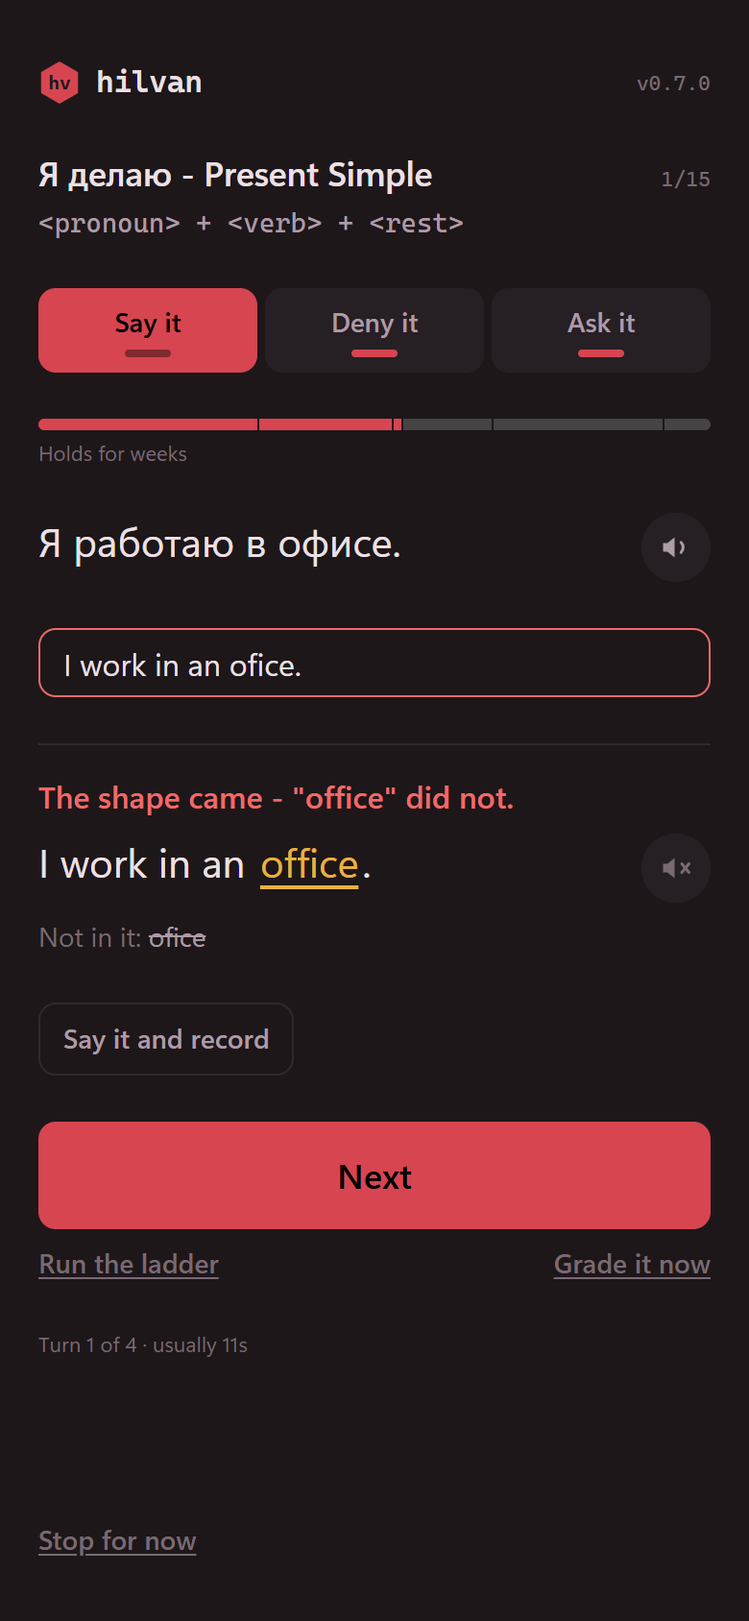
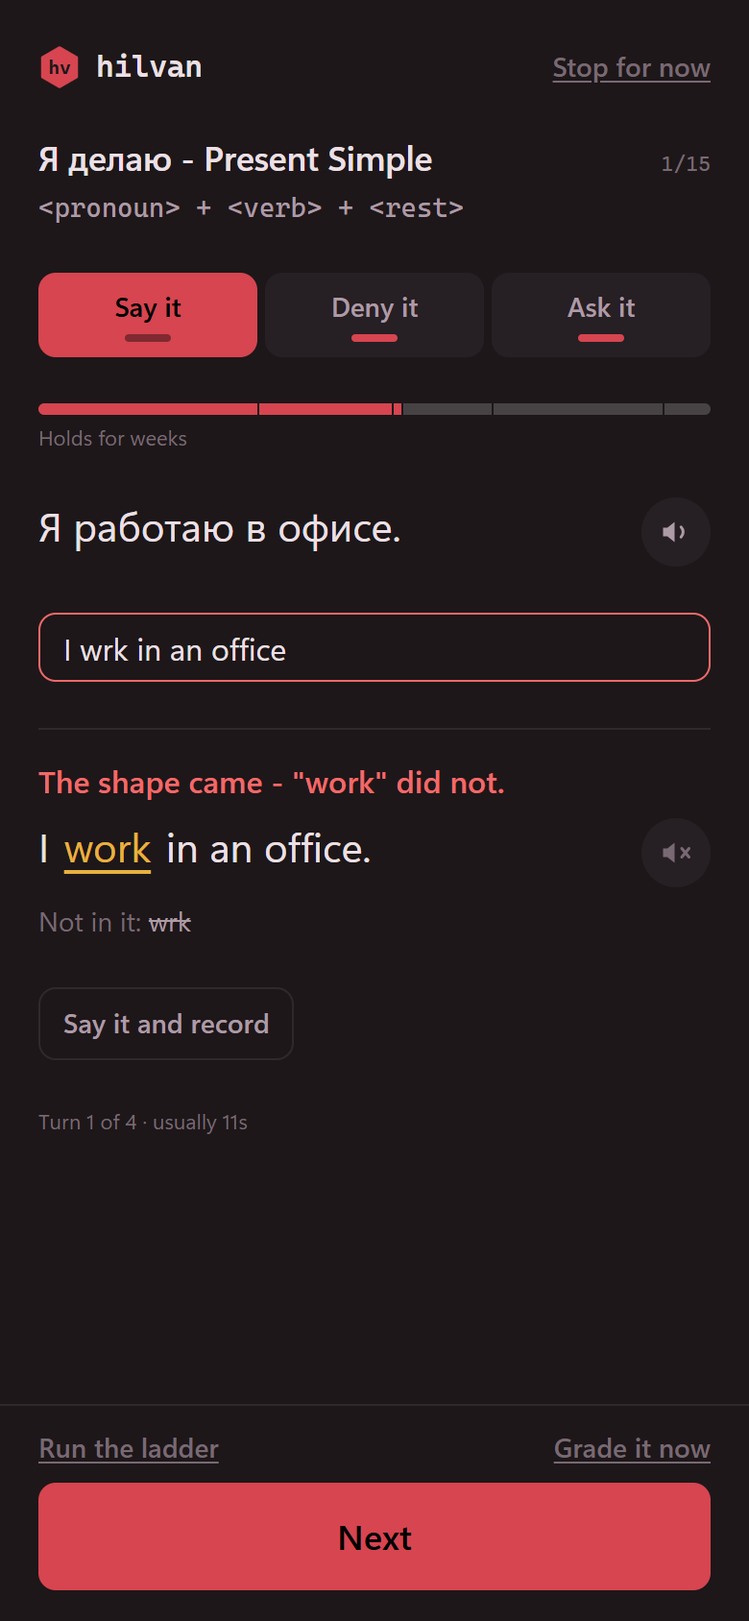
docs: explain the road, short sittings and this device, and bump to 0.8.0

diff --git a/docs/site/src/content/docs/reference/api.md b/docs/site/src/content/docs/reference/api.md
@@ -7,7 +7,7 @@ All endpoints are under `/api` and speak JSON. A path outside `/api` that does n
 
 ## Sessions
 
-Two endpoints - `/api/health` and `/api/session` - are reachable with no session. Every study endpoint (`/api/today`, `/api/formulas/{id}` with its `/check` and `/review`, `/api/words/{id}` and its `/review`, `/api/own-words`, `/api/inventory`, `/api/model`) sits behind [`HILVAN_PASSWORD_HASH`](/hilvan/reference/configuration/#the-password): when it is set, a request with no valid session cookie gets `401`.
+Two endpoints - `/api/health` and `/api/session` - are reachable with no session. Every study endpoint (`/api/today`, `/api/formulas/{id}` and its `/review`, `/api/words/{id}` and its `/review`, `/api/own-words`, `/api/inventory`, `/api/model`) sits behind [`HILVAN_PASSWORD_HASH`](/hilvan/reference/configuration/#the-password): when it is set, a request with no valid session cookie gets `401`.
 
 ```json
 { "error": "sign in first" }
@@ -156,7 +156,10 @@ Today's queue: formulas, then words. In each, everything due for review comes fi
   "room": { "debt": 3, "words": 7, "formulas": 1 },
   "on_break": null,
   "away_since": null,
-  "last_week": { "starts_on": "2026-08-24", "slipped": 2, "names": ["I am / you are", "home"] }
+  "last_week": { "starts_on": "2026-08-24", "slipped": 2, "names": ["I am / you are", "home"] },
+  "as_of": "2026-09-03T09:00:00Z",
+  "usual": { "produce": 52000, "recognise": 18000, "word": 7400 },
+  "coming": ["2026-09-03T19:12:00Z", "2026-09-05T08:40:00Z"]
 }
 ```
 
@@ -181,6 +184,9 @@ Today's queue: formulas, then words. In each, everything due for review comes fi
 | `words.declared` | integer | Words held on the learner's word alone: declared known and not asked since. Counted in the levels. |
 | `next` | object \| null | The first formula of the pack's sequence that has not started and is not opening today; `null` once every formula has. |
 | `next.waits_for` | array | Its [parents](/hilvan/reference/packs/#parents) not yet sewn, each with its `stitch`. Empty when it waits only for a day with room for a new formula. |
+| `as_of` | string (RFC 3339) | When the server read this. A copy the device keeps for a sitting out of reach says how old it is. |
+| `usual.produce` \| `usual.recognise` \| `usual.word` | integer \| null | How long an answer of each kind usually takes, in milliseconds: the median of the last 30 timed answers, `null` before there are three. A sitting of a few minutes is measured with it for a card with no `pace` of its own. |
+| `coming` | array of RFC 3339 | When the cards not in the queue come back over the next seven days, breaks counted, earliest first. The app counts what has come back since the read - the number on its icon - without asking again. |
 | `room.debt` | integer | Cards the queue asks that had waited through a whole day they could have been answered on - come due before the start of yesterday, the breaks counted - as the day began. |
 | `room.words` | integer | New words the day opens, all told: ten, one fewer for every card of debt. Words started earlier the same day use up places. |
 | `room.formulas` | integer | New formulas the day opens: `1` while the debt leaves room for a word, `0` once it has taken all ten. |
@@ -305,11 +311,11 @@ The three forms stay three formulas with three schedules, because they are learn
 { "error": "there is no formula called nonsense" }
 ```
 
-### `POST /api/formulas/{id}/check`
+### Checking a typed turn
 
-Checks one typed turn against the formula's answer and the answers it accepts, without recording anything: what the drill shows the moment the learner submits.
+There is no endpoint for it. The app checks each typed turn the moment it is typed with hilvan's own checker - the Rust the server grades with, built to WebAssembly (`crates/check`) - so the verdict comes with the tutor out of reach as it does at home. The server checks every turn again when the answer arrives, and that reading is the one the grade rests on.
 
-**Request** - a turn: what was asked, and what was typed.
+A turn names what was asked and what was typed:
 
 ```json
 { "asked": { "values": { "pronoun": "they", "rest": "ready" } }, "typed": "They is redy" }
@@ -317,7 +323,7 @@ Checks one typed turn against the formula's answer and the answers it accepts, w
 
 `asked` names the question by what it was made of: `{ "values": { slot: target } }` for a substitution - the `target` of the value put in each slot, every slot named once - or `{ "sample": <sentence id> }` for one of the formula's own sentences.
 
-**Response** `200`:
+What the checker makes of it:
 
 ```json
 {
@@ -345,7 +351,18 @@ Checks one typed turn against the formula's answer and the answers it accepts, w
 | `failure` | `"formula"` \| `"order"` \| `"word"` \| null | What went wrong: a piece of the shape missing (or something added), every word there in the wrong order, or only carried words missing. `null` when right. |
 | `missed` | array | Carried words that did not come, as they stand in `closest`. |
 
-**Response** `404` when `{id}` names no formula; `422` when `asked` names a slot, value or sentence the formula does not have.
+### Answers from the device
+
+Every answer - to a formula either way, or to a word - travels from a line kept on the device, delivered in the order the answers were given whenever the tutor can be reached: a second later at home, an evening later after a day underground. Each carries two fields besides the answer itself:
+
+| Field | Type | Required | Meaning |
+| --- | --- | --- | --- |
+| `answer_id` | string, 1 to 64 characters | yes | An identity the device minted for this answer. The same answer delivered again - the reply to the first delivery lost on the way back - is recorded once, and told what the first delivery was told. |
+| `answered_at` | string (RFC 3339) | yes | When the answer was given, by the device's clock. The answer is recorded at that moment, not when it arrived; a moment still to come - a clock running ahead - is taken as the moment it arrived. |
+
+An answer is put into the card's history at the moment it was given, and the history is played through the scheduler again, so an answer that arrives after a later one - given on a phone with no signal while a laptop answered the same card at home - takes its place between them. An answer given during a [break](#breaks) ends the break at that moment, however long after it arrives.
+
+**Response** `422` when either field is missing or `answer_id` is empty or too long.
 
 ### `POST /api/formulas/{id}/review`
 
@@ -355,6 +372,8 @@ Records an answer and reschedules the formula through FSRS. How depends on the d
 
 ```json
 {
+  "answer_id": "6f0c2b8e-3a51-4f7e-9d2c-1b8a7e4d5c10",
+  "answered_at": "2026-09-03T08:41:12.400Z",
   "direction": "produce",
   "turns": [
     { "asked": { "sample": 1 }, "typed": "I'm at home" },
@@ -367,7 +386,7 @@ Records an answer and reschedules the formula through FSRS. How depends on the d
 
 | Field | Type | Required | Meaning |
 | --- | --- | --- | --- |
-| `turns` | array | yes, at least one | Every turn typed, in order, in the shape `/check` takes. Each is checked again here; nothing the client concluded decides the grade. |
+| `turns` | array | yes, at least one | Every turn typed, in order, in the shape [a turn](#checking-a-typed-turn) takes. Each is checked again here; nothing the device concluded decides the grade. |
 | `easy` | boolean | no | The learner's word that it came without thinking. Honoured only when every turn was right. |
 | `duration_ms` | integer | no | How long the answer took. Kept and reported back as `pace`; never used to schedule. |
 
@@ -376,7 +395,7 @@ The grade follows the slips of the shape - a `formula` or `order` failure: in ha
 **Understanding it** - heard, and graded by the learner:
 
 ```json
-{ "direction": "recognise", "rating": "good", "duration_ms": 4200 }
+{ "answer_id": "2b9d4f7a-0c3e-4e6b-8a51-7d2f9c1e6b30", "answered_at": "2026-09-03T08:42:30.000Z", "direction": "recognise", "rating": "good", "duration_ms": 4200 }
 ```
 
 `rating` is one of `"again"`, `"hard"`, `"good"`, `"easy"`.
@@ -403,8 +422,8 @@ Only the card in the direction named is graded: answering `"recognise"` leaves t
 | `stitch` | `"new"` \| `"basted"` \| `"sewn"` | The formula's state in this direction after this answer. Never `"new"` - answering is what leaves the new pile. |
 | `rating` | string | The grade recorded: the learner's when heard, the turns' when typed. |
 | `words` | array | Words sent to their own cards by this answer. Always empty when heard. |
-| `due` | string (RFC 3339) | When the formula comes back in this direction. |
-| `interval_days` | integer | Days between now and `due`. |
+| `due` | string (RFC 3339) | When the formula comes back in this direction, breaks counted. |
+| `interval_days` | integer | Days between the answer's arrival and `due`. |
 | `pace` | object \| null | How this answer compared with the usual; `null` until three timed answers. |
 | `stability` \| `stability_before` | number | How firmly the card holds after the answer and held before it, in days: what the bar on the card moves between. |
 
@@ -475,7 +494,7 @@ Records an answer to a word and reschedules it through FSRS. A word has one card
 **Request:**
 
 ```json
-{ "rating": "good", "duration_ms": 2400 }
+{ "answer_id": "8e1f5a2c-6d4b-4c9e-b7a3-0f2e9d8c1a57", "answered_at": "2026-09-03T08:43:05.120Z", "rating": "good", "duration_ms": 2400 }
 ```
 
 **Response** `200`: the same shape as a formula's review - `stitch`, `due`, `interval_days`, `pace`, `rating`, `words`, `stability`, `stability_before`. The first answer fixes the word's anchor.

diff --git a/docs/site/src/content/docs/guides/your-first-week.md b/docs/site/src/content/docs/guides/your-first-week.md
@@ -1,6 +1,6 @@
 ---
 title: Your first week
-description: Loading the pack, signing in, what a sitting looks like, what happens when you miss days or go away, and what to expect as new formulas turn into basted ones and basted ones into sewn.
+description: Loading the pack, signing in, what a sitting looks like - at home, in a few minutes, on the road - what happens when you miss days or go away, and what to expect as new formulas turn into basted ones and basted ones into sewn.
 ---
 
 This is what actually happens once the tutor has material in it: loading a pack, signing in, and the shape of a sitting from the first day through the first week.
@@ -32,6 +32,8 @@ The commonest thousand go by in an evening. The run goes on to the 5,000 level w
 Open the app and it shows you today's queue: whatever is due for review, and - if the day has room - one new formula. That "one new formula a day" limit is deliberate. A formula is a shape you assemble until it stops needing thought, and starting two on the same day means neither gets that.
 
 **Reviews always come before the new formula.** If three formulas are due, you work through those first; the new one, when there is room for it, comes last. A day where you start something new while forgetting yesterday's is the thing hilvan is built to avoid.
+
+**Start**, at the foot of the screen, says about how long the whole queue takes. The buttons you press in a sitting - **Check**, **Next**, the grades - stay down there too, where a thumb reaches with the phone in one hand, however long the card above them is.
 
 For each formula, you see the pattern, an explanation in your own language, and worked examples. The drill substitutes different words into the same shape, so you are producing the sentence, not just recognizing it - and you produce it by **typing** it.
 
@@ -88,6 +90,32 @@ Under the name of a card you have answered before runs a thin bar: how long it h
 ### How long it took
 
 Under the turn counter, a card that has been drilled a few times says how fast it usually comes - "usually 3.8s" - and after you grade it, whether this answer was quicker or slower than that. It is there to be noticed, nothing more: the schedule is not affected by how long you took. A formula that arrives after eight seconds of assembly is still on its way to being yours, and the number is how you watch that happen.
+
+### A few minutes
+
+When the queue is longer than five minutes, **Only a few minutes?** above **Start** offers a sitting of 5, 10 or 15. It takes cards from the front of the queue - reviews first, as always - for as long as they fit, measured by how long each card usually takes you, or cards of its kind when it has no pace of its own yet. Nothing further back is picked out because it is quick: what is owed first is done first. What is left waits for the next sitting, the same day or the next.
+
+### From a keyboard
+
+On a computer, the space bar does what the screen is waiting for - show the answer, next turn, grade it, next card - and **1** to **4** give the four grades: again, hard, good, easy. When a typed round was flawless, **3** is good and **4** is easy. The keys are read by their place on the keyboard, so they work on a Russian layout as on an English one; in the answer field they type, as they should.
+
+## On the road
+
+A sitting does not need the tutor in reach. Open the app from the home screen on a train, in the metro, on a plane, and it opens with today as it stood the last time it was read, says so at the top, and works: every turn is checked on the phone, by the same code the tutor grades with, and each answer is kept on the phone and sent - in the order you gave them - the next time the tutor can be reached. An answer given underground at nine is recorded at nine, wherever it arrives.
+
+What it cannot say on the road is when a card comes back: that is the tutor's to work out, so after a grade the card says it is kept on the device. Today counts the answers still waiting, and the next time the app reaches the tutor they go, and the counts are the tutor's again.
+
+For the road to work, the app has to have been opened once with the tutor in reach: that is when it keeps itself, today's cards and the sounds the sitting will play - every question and answer of today's queue, fetched in the background. The questions of a sitting are settled at that moment, so the sounds are the right ones. It also needs the tutor's `https://` address: a browser keeps nothing for a page served over plain `http://` (see [Running on a Raspberry Pi](/hilvan/guides/running-on-a-pi/#over-https)).
+
+If you answer the same card on two devices before either reaches the tutor, both answers count, in the order you gave them.
+
+## On the home screen
+
+Installed on a phone's home screen, the app has two shortcuts on its icon - press and hold it: **Today**, and **Ten minutes**, which opens straight into a sitting that fits ten minutes. The icon carries a number: the cards waiting to come back. Where the phone allows it - an installed app on Android - the number is recounted now and then while the app is closed, as cards come due, without the tutor having to reach the phone; elsewhere it is the number the app last left.
+
+## This device
+
+**This device**, in the footer of Today, holds what belongs to the phone or computer rather than to you: whether the app is dark, light or as the device is set (each device keeps its own), what is kept for the road and whether every answer has reached the tutor, and signing out. Signing out sends what is waiting first, and refuses while anything still has not reached the tutor - signing out forgets what the device keeps.
 
 ## Missed days
 

diff --git a/docs/adr/0011-answers-from-the-road.md b/docs/adr/0011-answers-from-the-road.md
@@ -1,0 +1,31 @@
+# 0011 · Answers from the road: one core on both sides, one line on the device
+
+Date: 2026-10-20. Status: accepted.
+
+## Context
+
+The time a learner actually has is on the road: a train, the metro, a queue. Until 0.8 every turn of the drill was checked by `POST /api/formulas/{id}/check` and every answer posted straight to the server, so a sitting needed the tutor in reach the whole way through - and the tutor lives on a home network. The drill could not run underground at all, and an answer whose request failed was simply gone.
+
+Making the drill work there raises three questions: who says whether a typed turn is right when the server cannot be asked, how an answer given hours before it arrives fits into a schedule that has moved on meanwhile, and what happens to an answer delivered twice.
+
+## Decision
+
+**The check is one piece of Rust, run on both sides.** The answer checker, the `say` templates and the grade a round earns (`answer.rs`, `say.rs`, `judge`, `rate`) move into a crate of their own, `hilvan-core`, with no database, clock or network in it. The server links it; `crates/check` builds it to WebAssembly for the app, with a four-export interface (JSON in through one buffer, JSON out through another) and no bindings generator. The app checks every turn with it, in reach or not; the server checks every turn again when the answer arrives, and that reading is the one the grade rests on. `POST /api/formulas/{id}/check` is removed: one way to check, not two. A port to TypeScript was the alternative and was turned down - a second implementation of what is right would drift from the first the first time either changed, and the learner would be told "right" on the phone and graded wrong at home.
+
+**Every answer takes one road.** The app writes each answer to a line in IndexedDB and delivers the line in order - at once at home, whenever the tutor is next reached otherwise. There is no second path for answers given in reach. A delivery the server refuses for the answer's own sake (404, 400, 422) is dropped and counted; one refused for want of a session waits for a sign-in; anything else waits for later. The same rules as rhapsod's queue (rhapsod ADR 0003).
+
+**An answer carries its identity and its moment.** The device mints `answer_id`; the server keeps a receipt per id - the reply it gave - and a repeated delivery is told the same and recorded once. `answered_at` is the device's clock: the answer is recorded at that moment, and a moment still to come is taken as the moment of arrival.
+
+**A card is always its history played again.** An answer is added to the card's history at its own moment and the whole history is walked through FSRS again, rewriting each review row's step and the card row. This replaces the incremental update rather than sitting beside it as a special case for late answers: an answer that arrives after a later one - two devices on one card - takes its place between them, and the card is what both answers in that order make it. Inventory undo, which already rebuilt the card from its history, now rewrites the review rows too; before, it left the steps of later answers stale.
+
+**A late answer obeys the rules of its own moment.** An answer given during a break ends the break at that moment, however long after it arrives - the break counted on a laptop from the last answer it could see is cut back to the answer the phone gave underground.
+
+**The device holds the day.** A service worker keeps the app, the study reads (Today, formulas, words) and the sounds; Today carries `as_of`, the usual pace of each kind of card and the moments the cards out of the queue come back over the next week. The app lays the answers still on the device over the Today it holds. The questions of a sitting are drawn when Today is read in reach, and their sounds fetched then, so the road has something to say aloud. After an answer the tutor could not take in time, the card says it is kept on the device and does not guess when it comes back: the schedule is the server's alone.
+
+## Consequences
+
+- The drill runs without the tutor in reach: checked on the device, answered into the line, delivered in order later.
+- The web build needs the `wasm32-unknown-unknown` target and cargo; the image builds the checker in a stage of its own, and CI's web job installs the target.
+- Every answer replays its card's history. A card has tens of reviews, so the cost is nothing, and the rows can never drift from what the history says.
+- The receipts grow by one row per answer. They are delivery bookkeeping, not part of the learner model: the model file does not carry them, and an import leaves them as they are.
+- The API breaks: answers without `answer_id` and `answered_at` are refused, and the check endpoint is gone. There are no other clients.

diff --git a/README.md b/README.md
@@ -27,7 +27,7 @@ The name is the Spanish *hilván*, a basting stitch: phrases are first tacked in
 - **A start from what you know.** On the first evening the commonest words go by one at a time; the ones you know start sewn and are checked when a sentence brings them, so the levels begin where you are, not at zero.
 - **Your learner model, yours.** Every answer, own word and inventory answer downloads as one JSON file with a [published schema](https://lacodda.github.io/hilvan/reference/learner-model/), imports on another stand, and shows any past day beside today.
 - **Spaced repetition that decides for you.** FSRS scheduling with three states - new, basted, sewn - picks one new formula a day and brings back what is due.
-- **A sitting on a phone.** The formula of the day, a prompt, your typed answer, and what it got right.
+- **A sitting wherever you are.** On a phone in one hand, in the five or ten minutes you have, with the tutor out of reach: each typed turn is checked on the device by the tutor's own code, and the answers arrive, in order, when it can be reached.
 - **A password on the door.** The server refuses to run open and says so in its first log line if you skip it.
 
 ## Install
@@ -67,7 +67,7 @@ Everything comes from the environment; a `.env` file is read first, and `.env.ex
 
 ## Status
 
-**v0.7.0**, early, built for one learner: thirty formulas for a Russian speaker, words in their sentences, an inventory of what you know, a schedule that stops for a break, and the learner model as one file - on a phone. What landed in each version is in the [CHANGELOG](https://github.com/lacodda/hilvan/blob/main/CHANGELOG.md), the architecture in the [ADRs](https://github.com/lacodda/hilvan/tree/main/docs/adr).
+**v0.8.0**, early, built for one learner: thirty formulas for a Russian speaker, a schedule that stops for a break, and sittings that run out of the tutor's reach. See the [CHANGELOG](https://github.com/lacodda/hilvan/blob/main/CHANGELOG.md) and the [ADRs](https://github.com/lacodda/hilvan/tree/main/docs/adr).
 
 ## Documentation
 

diff --git a/docs/site/src/content/docs/concepts/how-hilvan-teaches.md b/docs/site/src/content/docs/concepts/how-hilvan-teaches.md
@@ -37,6 +37,10 @@ A day that begins with cards left over from earlier days opens less that is new 
 
 What you had and lost is named: each week's slips - a card you came up with on one day and could not on a later one - are listed, and the first sitting of a week opens with last week's. How firmly each card holds is on the card as a bar from hours to a year, not as a number of days.
 
+### Where the time is - built
+
+The time a learner has is mostly in between: a ride, a queue, ten minutes before something else. From v0.8.0 a sitting can be as long as the time there is - a few minutes takes the front of the queue, reviews first, measured by how long each card usually takes - and it runs with the tutor out of reach. Each typed turn is checked on the phone by the same code the tutor grades with, and each answer waits on the phone and arrives later at the moment it was given, so a day underground is a day of study like any other ([ADR 0011](https://github.com/lacodda/hilvan/blob/main/docs/adr/0011-answers-from-the-road.md)).
+
 ### Two directions, counted apart
 
 Understanding a sentence and producing one are different skills, and recognition always runs ahead. From v0.2.0 each formula is scheduled twice - saying it, and understanding it - so the two are never averaged into a number that describes neither. The Today screen shows both columns, and the gap between them is the point: you will understand more than you can say, and seeing by how much is more useful than a single figure that hides it.

diff --git a/docs/site/src/content/docs/getting-started.md b/docs/site/src/content/docs/getting-started.md
@@ -7,7 +7,7 @@ hilvan is one process: a Rust server over a SQLite file, serving a JSON API and 
 
 ## What you need
 
-- **Rust** - at least the version in `rust-version` in `Cargo.toml`. `rustup update stable` is enough.
+- **Rust** - at least the version in `rust-version` in `Cargo.toml`, with the WebAssembly target the app's checker is built for: `rustup update stable && rustup target add wasm32-unknown-unknown`.
 - **Node LTS with pnpm** - `corepack enable` provides pnpm.
 - **Docker** - only to run the image the way the stand does; nothing else needs it.
 
@@ -55,10 +55,11 @@ It goes only onto a tutor that holds no learner, so give it a database of its ow
 ```sh
 cd web
 pnpm install
+pnpm check-wasm
 pnpm dev
 ```
 
-Vite serves the app on `http://localhost:5173` and proxies `/api` to the server, so the two run as one origin. `pnpm build` writes `web/dist`, which is where the server looks for the app when it serves it itself (`HILVAN_WEB_DIR`).
+`pnpm check-wasm` builds the checker - the server's own code for reading a typed answer, built to WebAssembly from `crates/check` - into `web/src/check.wasm`, where the app imports it from; `pnpm test` and `pnpm build` build it themselves. Vite serves the app on `http://localhost:5173` and proxies `/api` to the server, so the two run as one origin. `pnpm build` writes `web/dist`, which is where the server looks for the app when it serves it itself (`HILVAN_WEB_DIR`).
 
 ## This site
 

diff --git a/docs/site/src/content/docs/guides/running-on-a-pi.md b/docs/site/src/content/docs/guides/running-on-a-pi.md
@@ -56,6 +56,10 @@ docker compose exec server hilvan import /data/hilvan-model.json
 
 To check a new stand before any learner is on it, `hilvan load-demo` puts a fictional one there - on a database of its own, since it refuses one that holds a learner.
 
+## Over HTTPS
+
+The tutor serves plain HTTP; put it behind a reverse proxy that holds a certificate your devices trust - a public one, or one from a certificate authority of your own installed on each device. Over plain `http://` the app works while the tutor can be reached, and no further: a browser keeps nothing offline for an insecure page, will not install it on the home screen, and will not lend it the microphone. Over `https://` the app keeps itself and today's sitting on the device, and a sitting on the road works (see [On the road](/hilvan/guides/your-first-week/#on-the-road)).
+
 ## The voice
 
 The compose files run a second container beside the server: `piper`, the local voice that speaks the learner's own language. Its image carries its voices, so it needs no network at start, and it is published at the tutor's own version - pinning `HILVAN_VERSION` pins both. On a Pi 4 it answers a sentence in one to two seconds once a voice is loaded, and takes about 150 MB plus 130 MB for each voice in use.

diff --git a/CONTRIBUTING.md b/CONTRIBUTING.md
@@ -2,14 +2,20 @@
 
 ## Development
 
-Requires Rust (see `rust-version` in `Cargo.toml`) and Node LTS with pnpm.
+Requires Rust (see `rust-version` in `Cargo.toml`) with the WebAssembly target, and Node LTS with pnpm:
+
+```sh
+rustup target add wasm32-unknown-unknown
+```
+
+The app checks typed turns with the server's own code, built to WebAssembly from `crates/check`: `pnpm test` and `pnpm build` in `web/` build it with cargo (`pnpm check-wasm` does only that), and the app imports it from `web/src/check.wasm`, which is built, never committed.
 
 ```sh
 cp .env.example .env
 cargo run -- load-pack packs/en-from-ru/pack.toml   # the formulas the tutor teaches from
 cargo run -- serve                        # the API on :8086; /api/health reports the database
 
-cd web && pnpm install && pnpm dev        # the app on :5173, proxying /api to the server
+cd web && pnpm install && pnpm check-wasm && pnpm dev   # the app on :5173, proxying /api to the server
 cd docs/site && pnpm install && pnpm dev  # the documentation site
 ```
 
